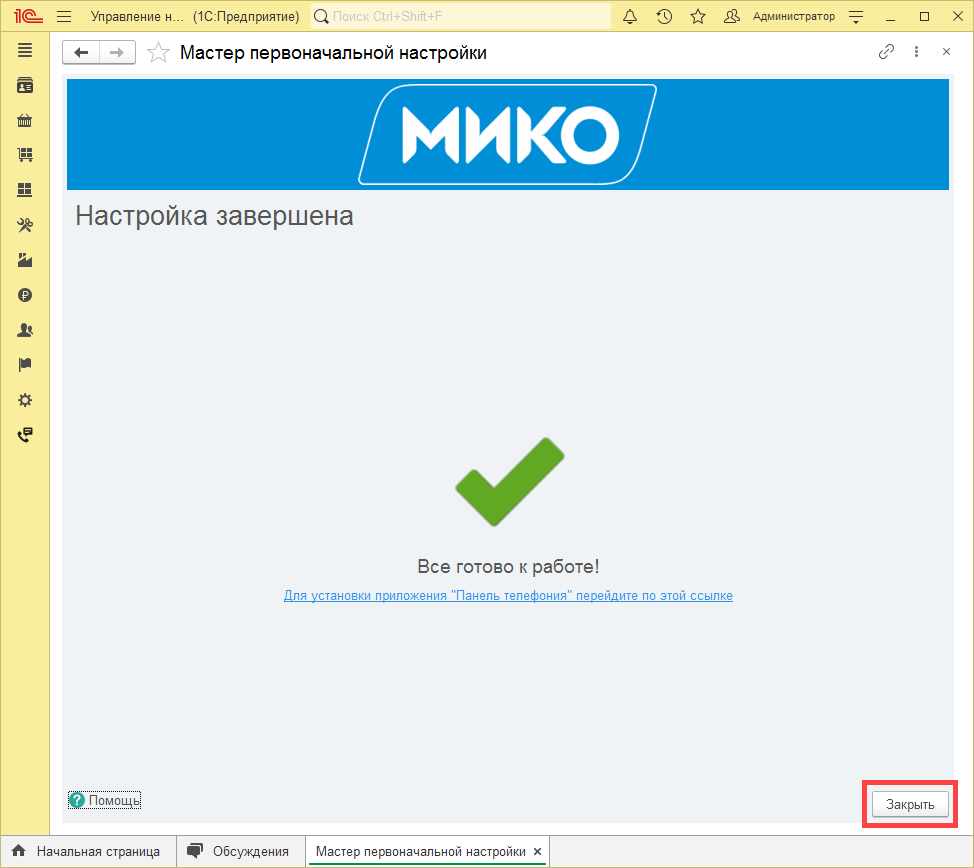
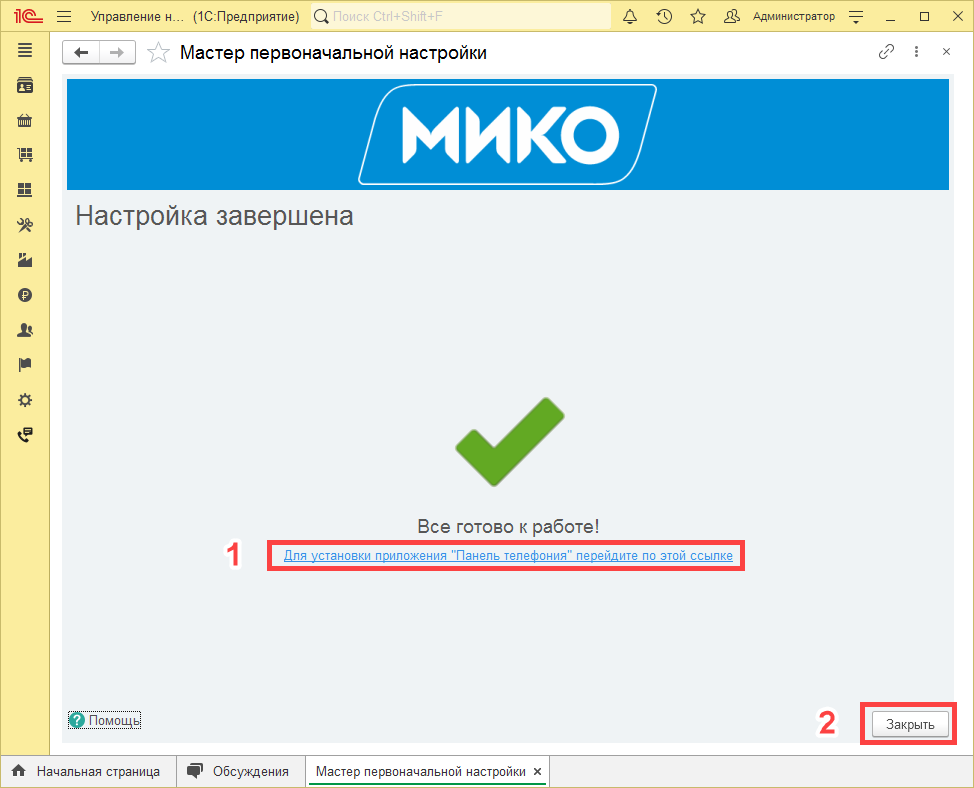
Реструктуризация разделов

diff --git a/src/get-started/freepbx.md b/src/get-started/freepbx.md
@@ -1,7 +1,7 @@
 ---
 visibility: hidden
 label: Интеграция с FreePBX
-icon: zap
+icon: tools
 order: -2
 ---
 
@@ -15,7 +15,7 @@ order: -2
 
 Данная инструкция предназначена для подсистемы телефонии редакции 4.0. Для предыдущих версий используйте другую инструкцию.
 
-### Установка модуля на АТС
+## Установка модуля на АТС
 
 Суть работы модуля заключается в подключении к AMI интерфейсу Asterisk, сбору информации о звонках, состоянии каналов, а также взаимодействие с 1С:Предприятием и Панелью телефонии для управления вызовами.
 
@@ -48,6 +48,7 @@ https://releases.mikopbx.com/releases/v1/freepbx/getModuleFile/pt1coutpanel/late
     alt="МИКО: FreePBX установка модуля панель телефонии"
 /> 
 
+## Получение лицензионного ключа
 11. После этого в разделе **Приложения** появится команда **MIKO CTI Client 4.0 for 1C (Подсистема телефонии для 1С)**. Выполните ее.
 
 <img class="miko-shadow img-zoomable"  
@@ -81,9 +82,11 @@ https://releases.mikopbx.com/releases/v1/freepbx/getModuleFile/pt1coutpanel/late
     alt="МИКО: FreePBX лицензионный ключ клиента в модуле панели телефонии"
 /> 
 
-
+## Получение ключа автонастройки
 13. Перейдите на вкладку **Настройки модуля**. В разделе **Общие настройки** установите переключатель в положение **Автоматическая настройка модуля**.  
-В разделе **Прочие настройки** переключатели **Включить режим отладки модуля** установите в положение **Включить**, "**Устанавливать CallerID из 1С**" - **Включить**, "**Выполнять транслитерацию CallerID полученного из 1С**" - в любое положение. <br> 
+В разделе **Прочие настройки** переключатели **Включить режим отладки модуля** установите в положение **Включить**, <br>
+"**Устанавливать CallerID из 1С**" - **Включить**, <br>
+"**Выполнять транслитерацию CallerID полученного из 1С**" - в любое положение. <br> 
 Выполните **Сохранить**. Скачайте обработку для 1С, нажав на ссылку.
 
 <img class="miko-shadow img-zoomable"  
@@ -93,4 +96,6 @@ https://releases.mikopbx.com/releases/v1/freepbx/getModuleFile/pt1coutpanel/late
     alt="МИКО: FreePBX настройка модуля панель телефонии"
 /> 
 
-21.Скопируйте себе лицензионный ключ и и код автоматической настройки. Они понадобятся вам при дальнейшей настройке в 1С.
+14. Скопируйте себе лицензионный ключ и код автоматической настройки. Они понадобятся вам при дальнейшей настройке в 1С.
+
+[!ref Настройка 1С](/get-started/nastroyka_1c)

diff --git a/src/get-started/nastroyka_1c.md b/src/get-started/nastroyka_1c.md
@@ -1,6 +1,6 @@
 ---
 label: Настройка 1C
-icon: zap
+icon: tools
 order: -2
 ---
 # Встраивание расширения телефонии в информационную базу 1С:Предприятие
@@ -154,13 +154,12 @@ order: -2
     alt="МИКО: добавление вида контактной информации"
 /> 
 
-17. Дождитесь окончания настройки. Страницу с мастером первоначальной настройки можно закрыть, она больше не понадобится. 
+17. Дождитесь окончания настройки. Откройте ссылку предложенную ссылку с установщиком внешней панели. <br>
+Страницу с мастером первоначальной настройки можно закрыть, она больше не понадобится. 
 
 <img class="miko-shadow img-zoomable"  
     src="/assets/mango/mango_35.png"
     data-original="/assets/mango/mango_35.png"
     srcset="/assets/mango/mango_35_prev.png 1x, /assets/mango/mango_35.png 2x" 
-    alt="МИКО: добавление вида контактной информации"
+    alt="МИКО: скачивание внешней панели"
 /> 
-
-18. Перейдите к [установке Внешней панели 4.0](/user-guides/panel/install)

diff --git a/src/get-started/mango.md b/src/get-started/mango.md
@@ -1,7 +1,7 @@
 ---
 visibility: hidden
 label: Интеграция с ВАТС Манго
-icon: zap
+icon: tools
 order: -3
 ---
 Данная инструкция предназначена для редакции 4.0, для предыдущих версий используйте [эту инструкцию](https://wiki.miko.ru/nightbird:v21:get-started-mango).  
@@ -157,3 +157,5 @@ order: -3
 /> 
 
 На данном этапе[!badge variant="danger" text="соединение с 1С установлено не будет"]. Требуется дальнейшая настройка в 1С:Предприятие.
+
+[!ref Настройка 1С](/get-started/nastroyka_1c)

diff --git a/src/get-started/nastroyka_ats.md b/src/get-started/nastroyka_ats.md
@@ -1,6 +1,6 @@
 ---
 label: Настройка АТС
-icon: zap
+icon: tools
 order: -1
 ---
 В настоящее время поддерживается работа панели телефонии со следующими типами АТС:

diff --git a/src/get-started/mikopbx.md b/src/get-started/mikopbx.md
@@ -1,7 +1,7 @@
 ---
 visibility: hidden
 label: Интеграция с MikoPBX
-icon: zap
+icon: tools
 order: -1
 ---
 

diff --git a/src/get-started/install.md b/src/get-started/install.md
@@ -1,5 +1,6 @@
 ---
 order: -3
+icon: tools
 ---
 
 # Установка внешней панели

diff --git a/src/get-started/proverka_integracii.md b/src/get-started/proverka_integracii.md
@@ -1,6 +1,6 @@
 ---
 label: Звонок из 1С
-icon: zap
+icon: rocket
 order: -4
 ---
 
